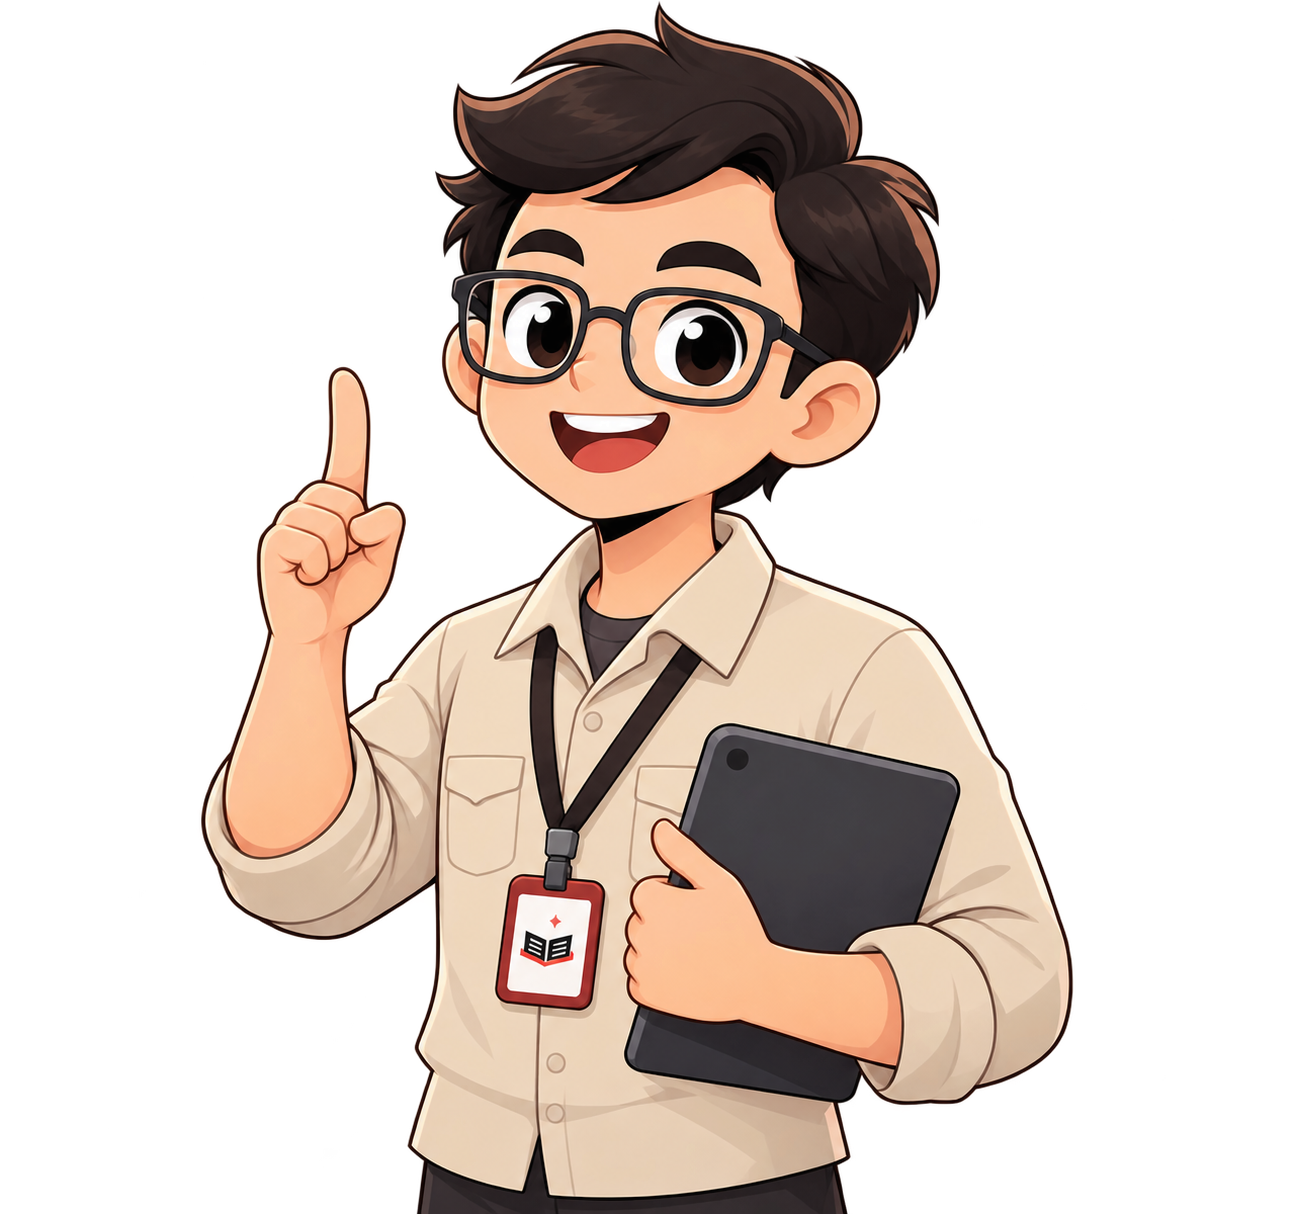
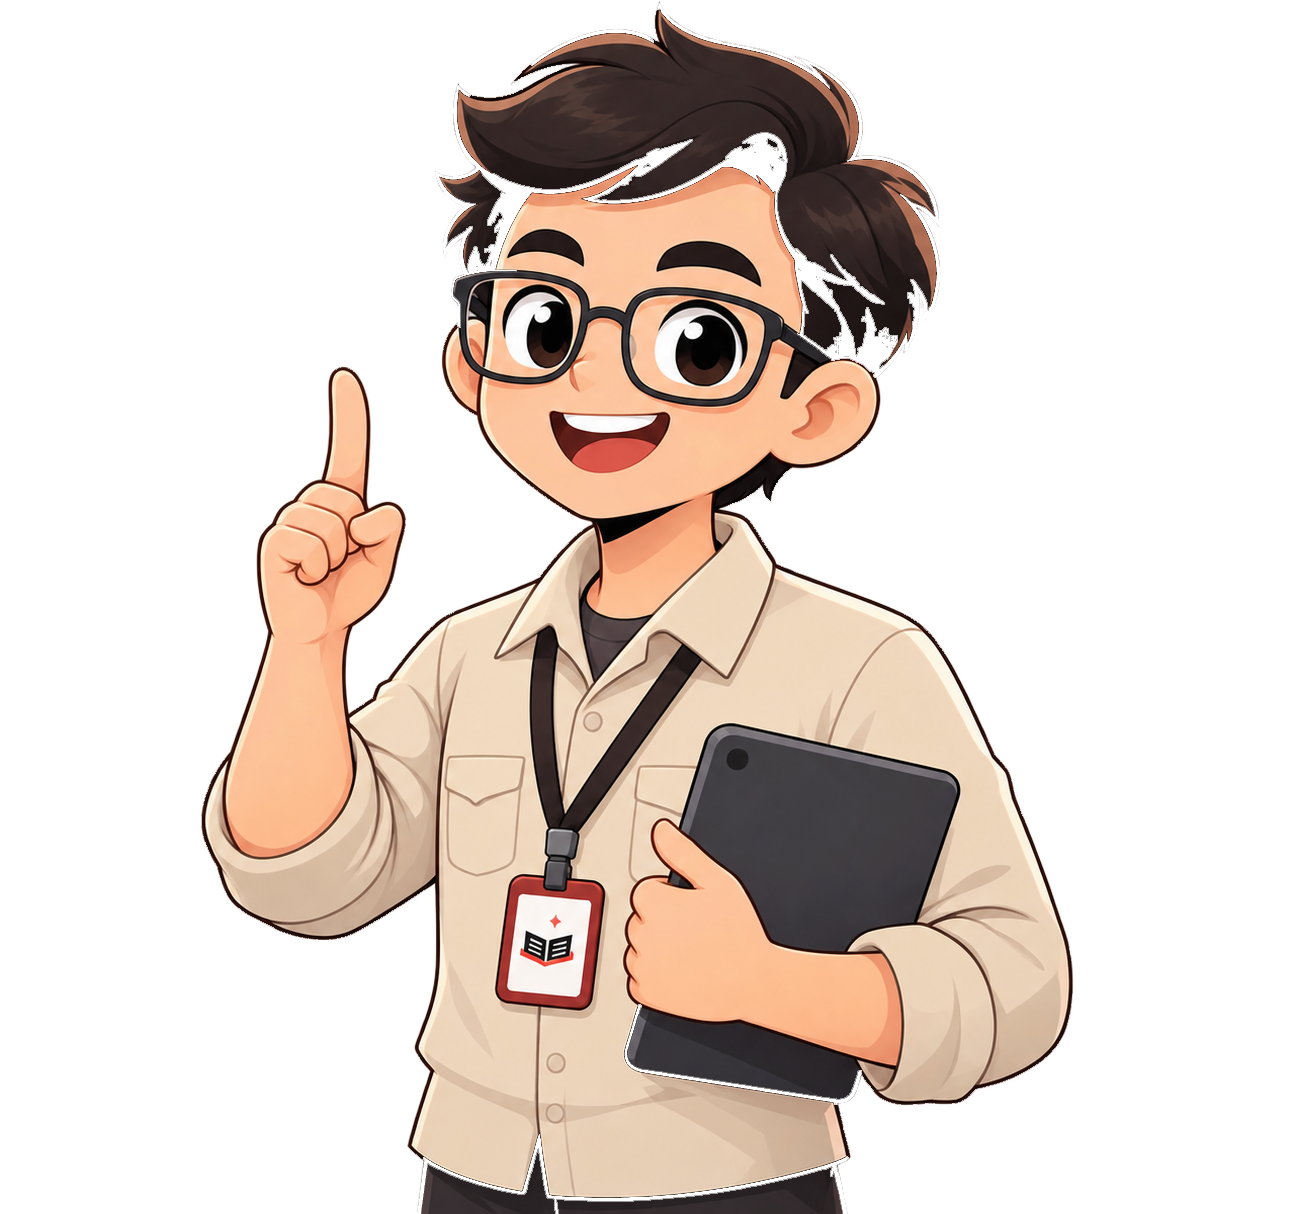
Maskot transparan + splash coklat-cream di hero (tanpa bingkai)

diff --git a/frontend/src/styles.css b/frontend/src/styles.css
@@ -552,11 +552,12 @@ p.lead { color: var(--slate); margin: 0 0 20px; font-size: 16px; max-width: 62ch
 .hero-land { border: var(--bd); background: var(--ink); color: var(--paper); box-shadow: 8px 8px 0 var(--red); padding: clamp(34px, 6vw, 70px); margin: 10px 0 30px; position: relative; overflow: hidden; }
 .hero-grid { display: grid; grid-template-columns: 1.12fr .88fr; gap: clamp(24px, 4vw, 60px); align-items: center; position: relative; z-index: 2; }
 .hero-teks { min-width: 0; }
-.hero-maskot { margin: 0; border: 3px solid var(--paper); box-shadow: 8px 8px 0 var(--red); transform: rotate(2deg); background: #000; }
-.hero-maskot img { display: block; width: 100%; height: auto; }
+.hero-maskot { margin: 0; position: relative; }
+.hero-maskot .maskot-splash { position: absolute; inset: -8% -12%; width: 124%; height: 116%; opacity: .9; }
+.hero-maskot .maskot-img { display: block; width: 100%; height: auto; position: relative; }
 @media (max-width: 900px) {
   .hero-grid { grid-template-columns: 1fr; }
-  .hero-maskot { max-width: 340px; margin: 6px auto 0; transform: none; }
+  .hero-maskot { max-width: 340px; margin: 6px auto 0; }
 }
 .hero-land h1 { font-size: clamp(30px, 8vw, 84px); font-weight: 900; line-height: .95; margin: 0 0 18px; letter-spacing: -2px; text-transform: uppercase; position: relative; z-index: 2; }
 .hero-land h1 .accent { color: #E8604F; }

diff --git a/frontend/src/components/Landing.jsx b/frontend/src/components/Landing.jsx
@@ -97,7 +97,8 @@ export default function Landing({ onStart, onDocs, onMasukan, waLink, onLogin })
             )}
           </div>
           <figure className="hero-maskot">
-            <img src="/maskot.png" alt="Maskot guru ModulAjar menunjuk ke atas sambil memegang tablet" width="640" height="600" loading="eager" />
+            <img className="maskot-splash" src="/splash.svg" alt="" aria-hidden="true" />
+            <img className="maskot-img" src="/maskot.png" alt="Maskot guru ModulAjar menunjuk ke atas sambil memegang tablet" width="640" height="600" loading="eager" />
           </figure>
         </div>
       </section>
